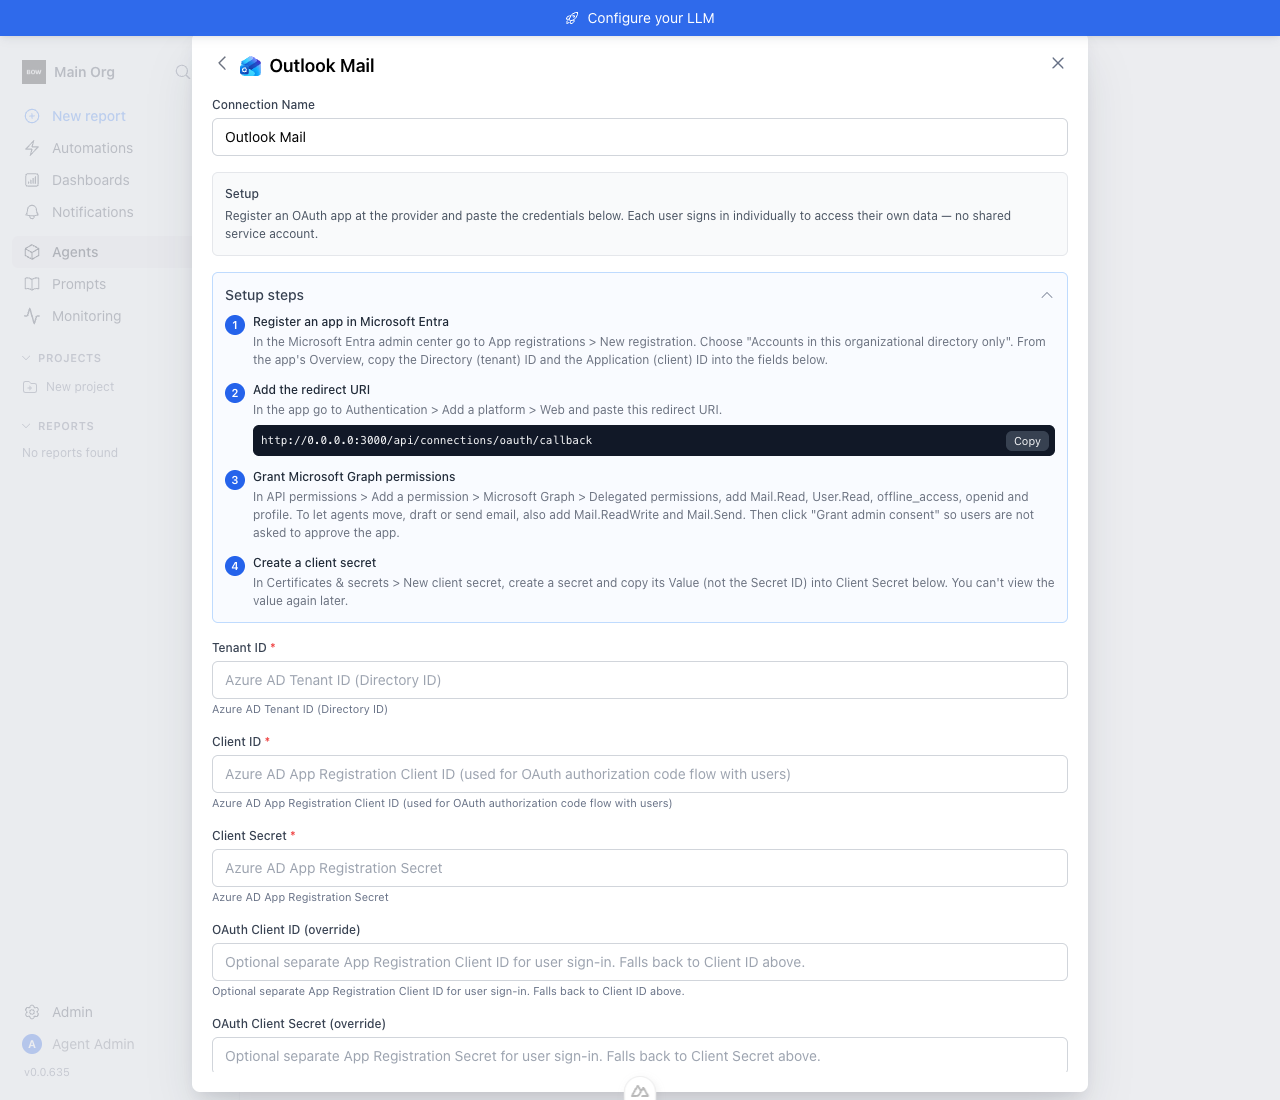
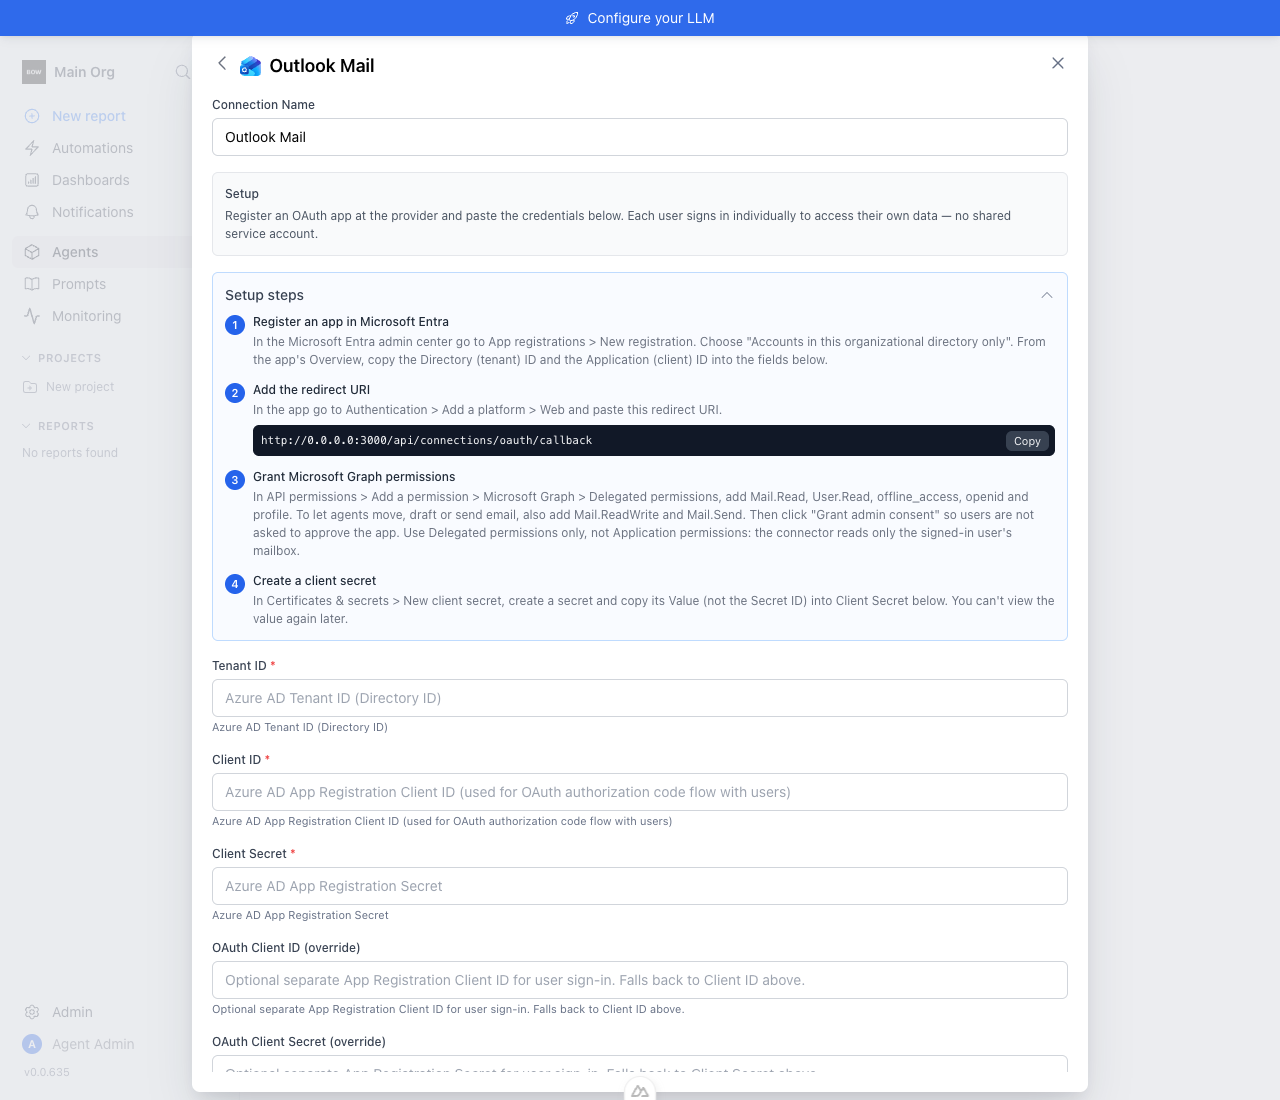
Collapse the setup guide when editing an integration
An admin rotating a secret shouldn't scroll past the setup steps. Also
refresh the after screenshots for the Delegated-only sentence.

diff --git a/frontend/components/IntegrationConnectionForm.vue b/frontend/components/IntegrationConnectionForm.vue
@@ -16,7 +16,7 @@
 
       <div v-if="loadingFields" class="text-xs text-ink-muted">{{ $t('common.loading') }}</div>
       <template v-else>
-        <SetupGuide :type="props.integrationType" :steps="setupGuide" />
+        <SetupGuide :type="props.integrationType" :steps="setupGuide" :default-open="!isEditMode" />
         <!-- Only when the registry offers more than one admin option (e.g.
              Google Drive: OAuth client vs. shared service account). Fixed in
              edit mode: switching changes who the connection runs as. -->

diff --git a/frontend/components/datasources/SetupGuide.vue b/frontend/components/datasources/SetupGuide.vue
@@ -25,15 +25,16 @@
 <script setup lang="ts">
 import { computed, ref } from 'vue'
 
-const props = defineProps<{
+const props = withDefaults(defineProps<{
   type: string
   steps?: any[] | null
-}>()
+  defaultOpen?: boolean
+}>(), { defaultOpen: true })
 
 const { t, te } = useI18n()
 
 const guideSteps = computed<any[]>(() => Array.isArray(props.steps) ? props.steps : [])
-const open = ref(true)
+const open = ref(props.defaultOpen)
 const copiedStep = ref<number | null>(null)
 const copyFailedStep = ref<number | null>(null)
 
